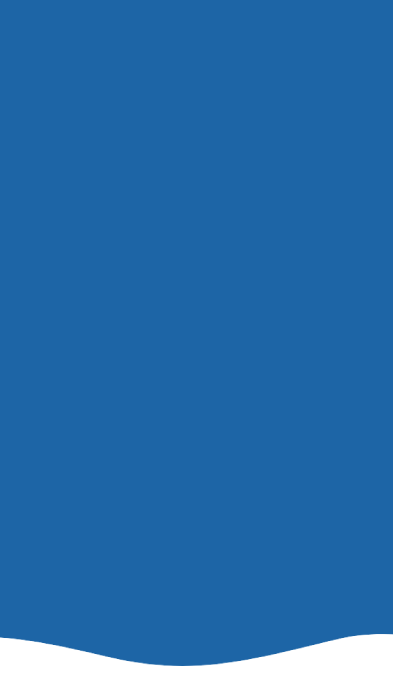
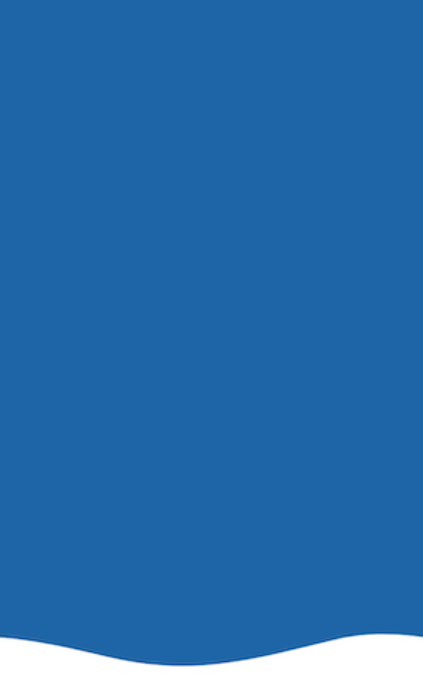
fixed header responsiveness

diff --git a/layouts/partials/clients.html b/layouts/partials/clients.html
@@ -1,20 +1,21 @@
-
 {{ $data := index site.Data site.Language.Lang }}
 
 {{ if $data.clients.clients.enable }}
-    {{ with $data.clients.clients }}
-        <div class="relative max-w-7xl mx-auto px-4 sm:px-6">
-            <h2 class="font-bold text-2xl sm:text-4xl text-center mt-12 sm:mt-24">
-                <span>
-                    {{ with .title }} {{ index (split . " ") 0 | safeHTML }} {{ end }}
-                    <span class="text-[#1D65A6]">{{ with .title }} {{ after (len (index (split . " ") 0)) . | safeHTML }} {{ end }}</span>
-                </span>
-            </h2>
-            <ul class="mt-10 sm:grid grid-cols-5 grid-flow-col gap-20 items-center">
-                {{ range .clients_item}}
-                    <li class="mt-10 flex justify-center"><img class="h-10 sm:h-auto" src="{{ .image | absURL }}" alt="{{ .name }}"></li>
-                {{ end }}
-            </ul>
-        </div>
-    {{ end }}
+{{ with $data.clients.clients }}
+<div class="relative max-w-7xl mx-auto px-4 sm:px-6">
+    <h2 class="font-bold text-2xl sm:text-4xl text-center mt-12 sm:mt-24">
+        <span>
+            {{ with .title }} {{ index (split . " ") 0 | safeHTML }} {{ end }}
+            <span class="text-[#1D65A6]">{{ with .title }} {{ after (len (index (split . " ") 0)) . | safeHTML }} {{ end
+                }}</span>
+        </span>
+    </h2>
+    <ul class="mt-10 sm:grid grid-cols-5 grid-flow-col gap-20 items-center">
+        {{ range .clients_item}}
+        <li class="mt-10 flex justify-center"><img class="h-10 sm:h-[auto]" src="{{ .image | absURL }}"
+                alt="{{ .name }}"></li>
+        {{ end }}
+    </ul>
+</div>
+{{ end }}
 {{ end }}

diff --git a/static/output.css b/static/output.css
@@ -1341,6 +1341,10 @@ video {
   margin-bottom: 1.75rem;
 }
 
+.mt-2 {
+  margin-top: 0.5rem;
+}
+
 .block {
   display: block;
 }
@@ -1407,6 +1411,10 @@ video {
 
 .h-3 {
   height: 0.75rem;
+}
+
+.h-\[55px\] {
+  height: 55px;
 }
 
 .min-h-\[480px\] {
@@ -1731,6 +1739,10 @@ video {
 
 .bg-right-center {
   background-position: right center;
+}
+
+.bg-right-top {
+  background-position: right top;
 }
 
 .bg-no-repeat {
@@ -2219,6 +2231,14 @@ body {
     height: 3.5rem;
   }
 
+  .sm\:h-\[55px\] {
+    height: 55px;
+  }
+
+  .sm\:h-\[auto\] {
+    height: auto;
+  }
+
   .sm\:min-h-\[691px\] {
     min-height: 691px;
   }
@@ -2241,6 +2261,10 @@ body {
 
   .sm\:bg-\[length\:1228px_691px\] {
     background-size: 1228px 691px;
+  }
+
+  .sm\:bg-\[length\:1267px_691px\] {
+    background-size: 1267px 691px;
   }
 
   .sm\:px-6 {

diff --git a/layouts/partials/site-header.html b/layouts/partials/site-header.html
@@ -2,7 +2,7 @@
 <div class=" sm:bg-wavelg-pattern bg-wave-pattern bg-right-center sm:min-h-[691px] min-h-[480px] w-full">
     <!-- <img class="w-full absolute lg:inset-y-0 lg:left-0 lg:h-full lg:w-full lg:max-w-none" src="img/hero.png" alt="" /> -->
     <div
-        class="bg-hero-pattern sm:bg-[length:1228px_691px] bg-[length:882.5px_480px] bg-right-center bg-no-repeat sm:min-h-[691px] min-h-[480px] w-full">
+        class="bg-hero-pattern sm:bg-[length:1267px_691px] bg-[length:882.5px_480px] bg-right-center bg-no-repeat sm:min-h-[691px] min-h-[480px] w-full pt-3">
 
         {{ partial "site-nav.html" . }}
 

diff --git a/layouts/partials/site-nav.html b/layouts/partials/site-nav.html
@@ -1,5 +1,6 @@
-<nav class="relative max-w-7xl mx-auto flex items-center justify-between text-white px-4 sm:px-6" aria-label="Global">
-    <a href="/" class="pt-3 sm:pt-0">
+<nav class="relative max-w-7xl mx-auto flex sm:block lg:flex  items-center justify-between text-white px-4 sm:px-6"
+    aria-label="Global">
+    <a href="/" class="pt-3">
         <img src="img/logo.png" alt="Rotational Lab logo" class="h-14 w-auto sm:h-14">
     </a>
     <div class="topnav" id="myTopnav">
